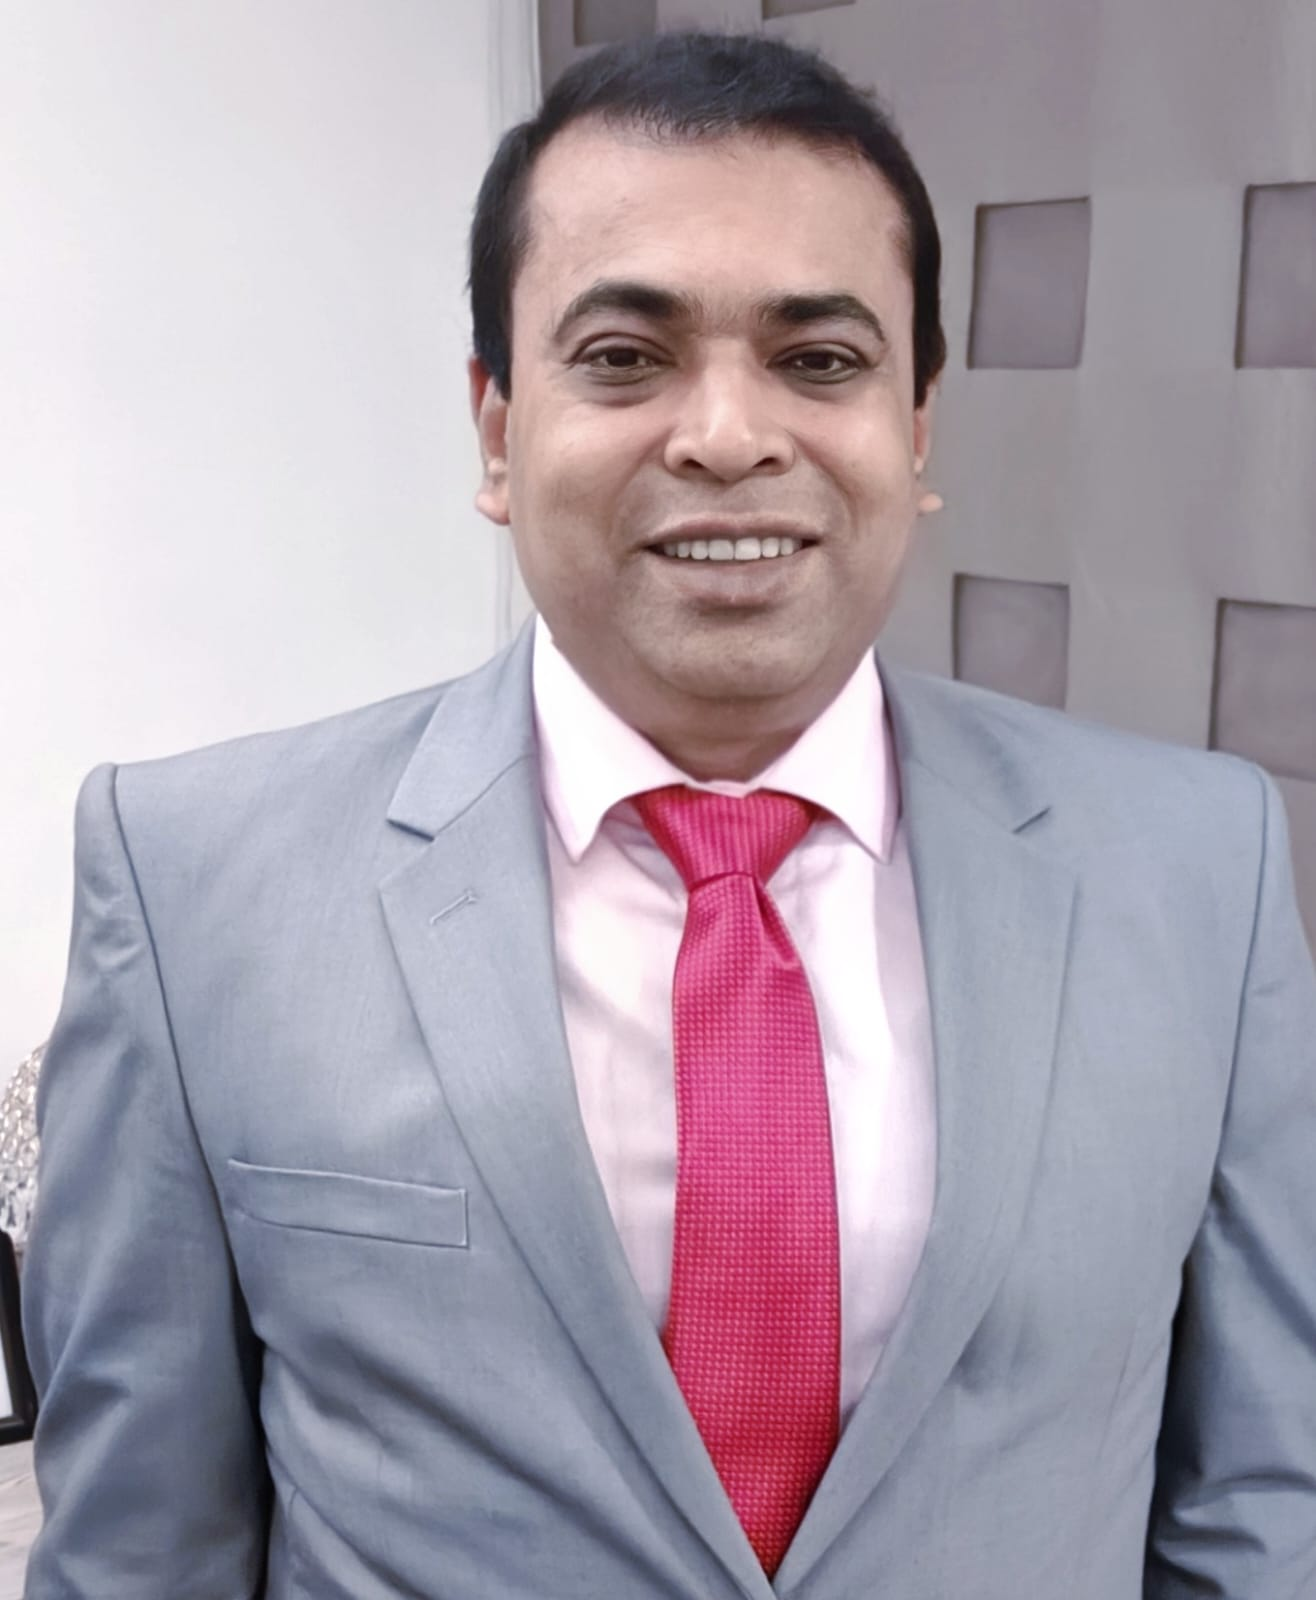
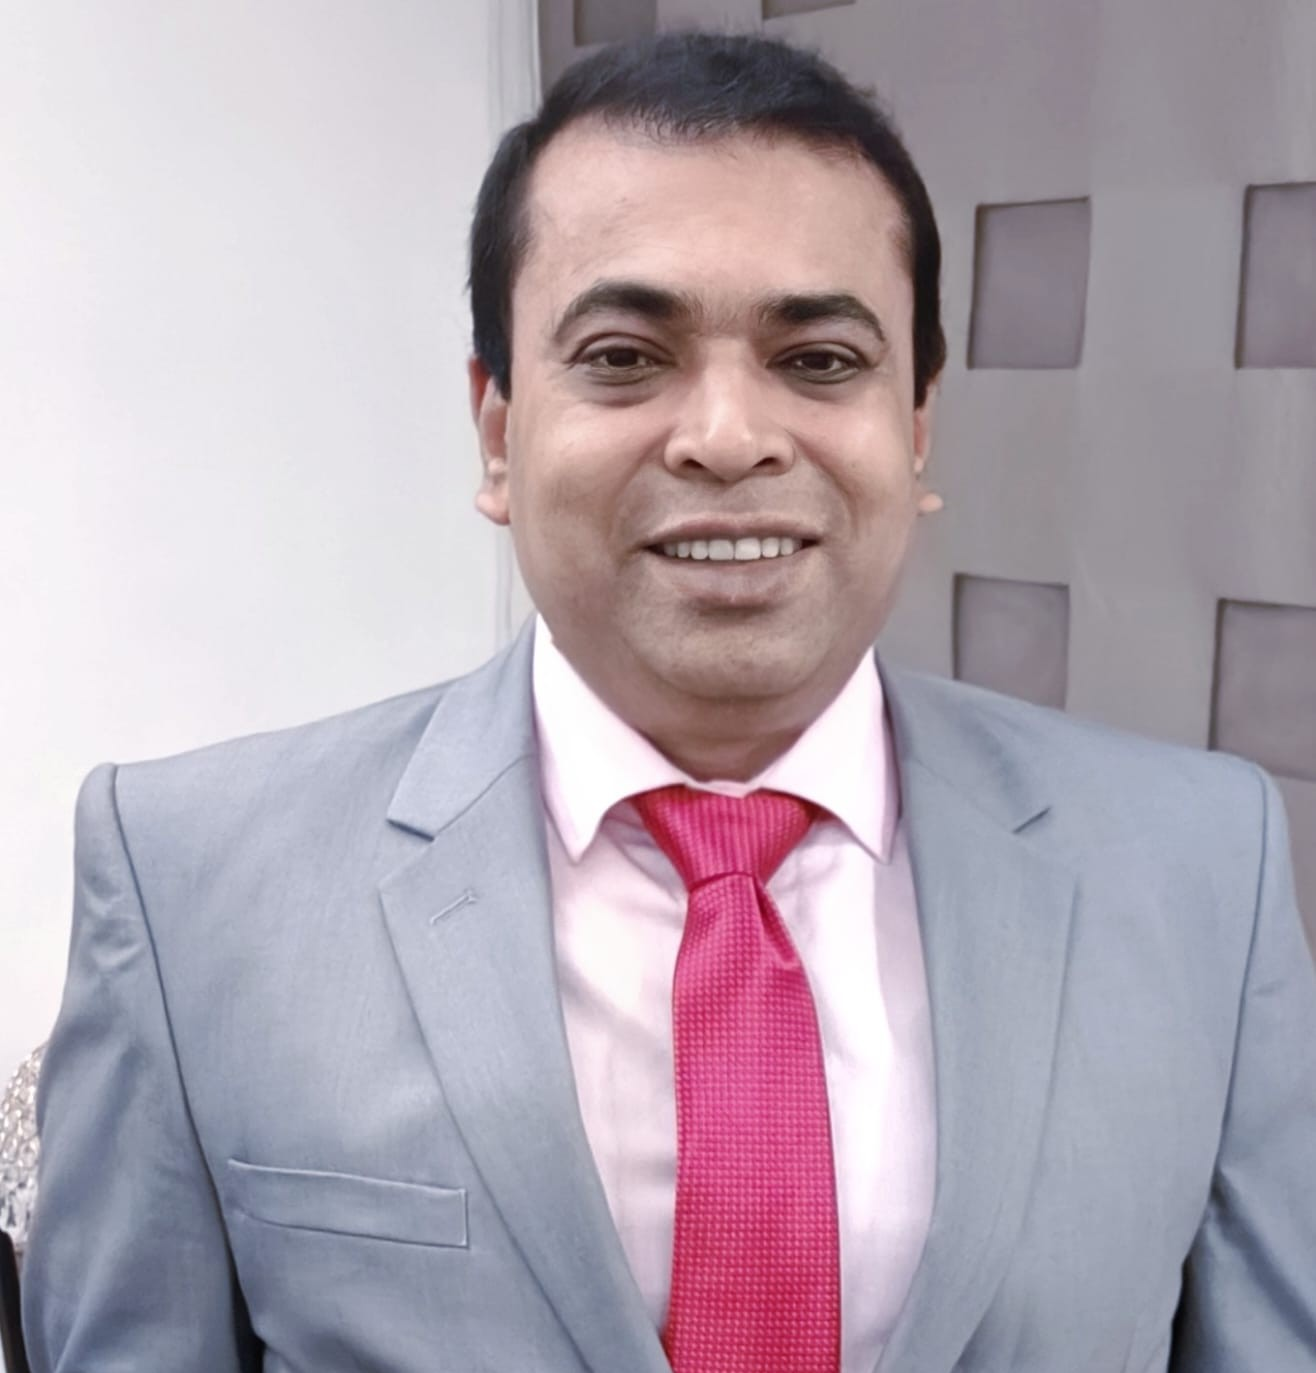
Home page design changed

diff --git a/website/src/components/layout/MobileNavigationItem.tsx b/website/src/components/layout/MobileNavigationItem.tsx
@@ -11,18 +11,12 @@ interface Props {
 export default function MobileNavigationItem({ item, onClose }: Props) {
   const [expanded, setExpanded] = useState(false);
 
-  if (!item.children) {
+  if (!item.children?.length) {
     return (
       <NavLink
-        to={item.path!}
+        to={item.path ?? "/"}
         onClick={onClose}
-        className={({ isActive }) =>
-          `block rounded-xl px-4 py-3 text-lg font-medium transition-colors ${
-            isActive
-              ? "bg-primary text-white"
-              : "text-gray-700 hover:bg-primary/10 hover:text-primary"
-          }`
-        }
+        className="block rounded-xl px-4 py-3 text-lg font-medium text-gray-700 hover:bg-primary/10 hover:text-primary"
       >
         {item.name}
       </NavLink>
@@ -33,30 +27,25 @@ export default function MobileNavigationItem({ item, onClose }: Props) {
     <div>
       <button
         type="button"
-        onClick={() => setExpanded((prev) => !prev)}
-        className="flex w-full items-center justify-between rounded-xl px-4 py-3 text-left text-lg font-medium text-gray-700 transition-colors hover:bg-primary/10 hover:text-primary"
+        onClick={() => setExpanded(!expanded)}
+        className="flex w-full items-center justify-between rounded-xl px-4 py-3 text-lg font-medium text-gray-700 hover:bg-primary/10 hover:text-primary"
       >
         {item.name}
-
         <ChevronDown
           size={18}
-          className={`transition-transform ${expanded ? "rotate-180" : ""}`}
+          className={expanded ? "rotate-180 transition-transform" : "transition-transform"}
         />
       </button>
 
       {expanded && (
-        <div className="mt-2 ml-5 space-y-2 border-l border-gray-200 pl-4">
-          {expanded && (
-            <div className="mt-2 ml-5 space-y-2 border-l border-gray-200 pl-4">
-              {item.children.map((child) => (
-                <MobileNavigationItem
-                  key={child.id}
-                  item={child}
-                  onClose={onClose}
-                />
-              ))}
-            </div>
-          )}
+        <div className="ml-4 mt-2 border-l border-gray-200 pl-4">
+          {item.children.map((child) => (
+            <MobileNavigationItem
+              key={child.id}
+              item={child}
+              onClose={onClose}
+            />
+          ))}
         </div>
       )}
     </div>

diff --git a/website/src/components/layout/MobileMenu.tsx b/website/src/components/layout/MobileMenu.tsx
@@ -61,10 +61,16 @@ export default function MobileMenu({ open, onClose }: MobileMenuProps) {
 
         {/* Navigation */}
 
-        <nav className="flex flex-1 flex-col gap-2 p-6">
-          {navItems.map((item) => (
-            <MobileNavigationItem key={item.id} item={item} onClose={onClose} />
-          ))}
+        <nav className="min-h-0 flex-1 overflow-y-auto p-6">
+          <div className="space-y-2">
+            {navItems.map((item) => (
+              <MobileNavigationItem
+                key={item.id}
+                item={item}
+                onClose={onClose}
+              />
+            ))}
+          </div>
         </nav>
 
         {/* Bottom Button */}

diff --git a/website/src/features/contact/components/GetInTouchSection.tsx b/website/src/features/contact/components/GetInTouchSection.tsx
@@ -17,9 +17,9 @@ export default function GetInTouchSection() {
           </h2>
 
           <p className="mt-5 leading-8 text-gray-600">
-            Have a business inquiry  or product
-            question? Fill out the contact form below or visit our corporate
-            office. We'd love to hear from you.
+            Have a business inquiry or product question? Fill out the contact
+            form below or visit our corporate office. We'd love to hear from
+            you.
           </p>
         </div>
 
@@ -32,10 +32,11 @@ export default function GetInTouchSection() {
             <div className="overflow-hidden rounded-3xl shadow-lg">
               <iframe
                 title="Corporate Office"
-                src="https://www.google.com/maps?q=House+12,+Road+14,+Sector+13,+Uttara,+Dhaka&output=embed"
+                src="https://www.google.com/maps/embed?pb=!1m18!1m12!1m3!1d1824.2869278302653!2d90.3871646556515!3d23.86926152920386!2m3!1f0!2f0!3f0!3m2!1i1024!2i768!4f13.1!3m3!1m2!1s0x3755c41a7accf0e1%3A0x947d1c890d457aa6!2sMALIHA%20POLYT%20TEX%20FIBER%20INDUSTRY%20LIMITED!5e0!3m2!1sen!2sbd!4v1783421225935!5m2!1sen!2sbd"
                 className="h-[620px] w-full border-0"
                 loading="lazy"
               />
+              
             </div>
           </div>
 

diff --git a/website/src/components/layout/Navbar.tsx b/website/src/components/layout/Navbar.tsx
@@ -45,12 +45,9 @@ export default function Navbar() {
 
               <div className="hidden lg:block">
                 <h1 className="text-xl font-bold text-gray-900">
-                  Maliha Poly Tex
+                  Maliha Poly Tex <span  className="text-15px text-green-700 tracking-wide">Fiber Industry Ltd.</span>
                 </h1>
-
-                <p className="text-sm text-green-700 tracking-wide">
-                  Fiber Industry Ltd.
-                </p>
+                  
               </div>
             </Link>
 

diff --git a/website/src/features/about/data/topManagement.ts b/website/src/features/about/data/topManagement.ts
@@ -9,7 +9,7 @@ export interface ManagementMember {
 export const topManagement: ManagementMember[] = [
   {
     id: 1,
-    name: "MR. MANZURUL HASSAN",
+    name: "MANZURUL HASSAN",
     designation: "Chairman",
     image: "/images/management/chairman.png",
     message:
@@ -17,7 +17,7 @@ export const topManagement: ManagementMember[] = [
   },
   {
     id: 2,
-    name: "MR. MAHBUBUL HASAN",
+    name: "MAHBUBUL HASAN",
     designation: "Managing Director",
     image: "/images/management/md.jpeg",
     message:
@@ -26,7 +26,7 @@ export const topManagement: ManagementMember[] = [
   {
     id: 3,
     name: "TARIK MD MAHABUBUL ISLAM",
-    designation: "Executeive Director",
+    designation: "Executive Director",
     image: "/images/management/ed.jpeg",
     message:
       "Lorem ipsum dolor sit amet, consectetur adipiscing elit. Excepteur sint occaecat cupidatat non proident, sunt in culpa qui officia deserunt mollit anim id est laborum.",

diff --git a/website/src/features/contact/components/ContactInformation.tsx b/website/src/features/contact/components/ContactInformation.tsx
@@ -109,7 +109,7 @@ export default function ContactInformation() {
               <div className="mb-8 border-b border-gray-100 pb-6">
                 <h4 className="mb-3 font-semibold text-gray-900">Telephone</h4>
 
-                <div className="grid grid-cols-1 gap-2 text-[15px] text-gray-600 sm:grid-cols-2 sm:gap-3">
+                <div className="grid grid-cols-1 gap-2 text-[15px] text-gray-600 sm:grid-cols-3 sm:gap-3">
                   {contactDetails.telephones.map((phone) => (
                     <p key={phone}>{phone}</p>
                   ))}
@@ -121,7 +121,7 @@ export default function ContactInformation() {
               <div className="mb-8 border-b border-gray-100 pb-6">
                 <h4 className="mb-3 font-semibold text-gray-900">Mobile</h4>
 
-                <div className="grid grid-cols-1 gap-2 text-[15px] text-gray-600 sm:grid-cols-2 sm:gap-3">
+                <div className="grid grid-cols-1 gap-2 text-[15px] text-gray-600 sm:grid-cols-3 sm:gap-3">
                   {contactDetails.mobiles.map((phone) => (
                     <p key={phone}>{phone}</p>
                   ))}

diff --git a/website/src/features/about/components/ManagementCard.tsx b/website/src/features/about/components/ManagementCard.tsx
@@ -29,7 +29,7 @@ export default function ManagementCard({
           <div className="p-6">
             <div className="mb-5 h-px w-full bg-gray-200" />
 
-            <h3 className="text-2xl font-bold leading-tight text-gray-900">
+            <h3 className="text-base font-bold leading-tight text-gray-900">
               {member.name}
             </h3>
 

diff --git a/website/src/features/home/Components/Hero/Hero.tsx b/website/src/features/home/Components/Hero/Hero.tsx
@@ -73,7 +73,7 @@ export default function Hero() {
                     {slide.title}
                   </h1>
 
-                  <p className="mt-6 text-base leading-7 text-gray-200 lg:text-lg lg:leading-8">
+                  <p className="mt-6 text-base leading-7 text-white-200 lg:text-lg lg:leading-8">
                     {slide.description}
                   </p>
 